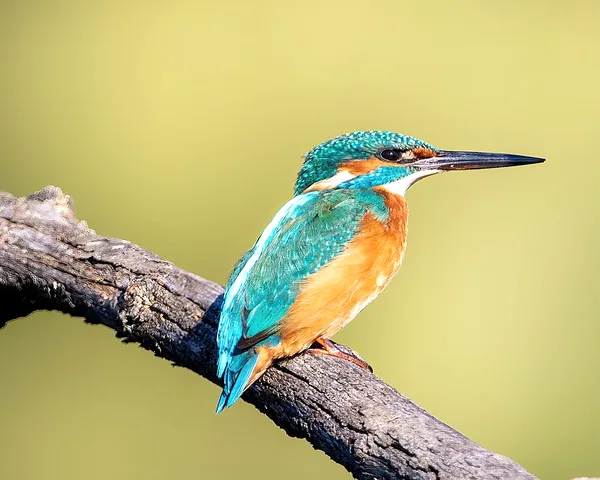
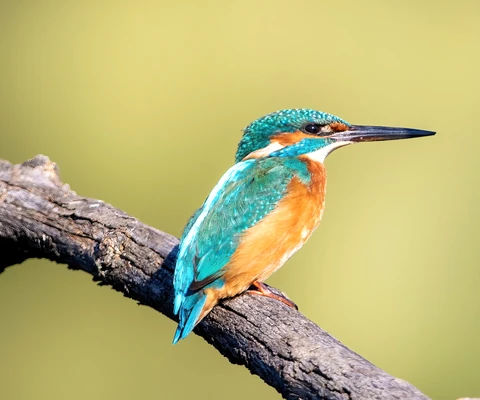
fix(nature): 移动端物种图鉴去背景框、配图重导出、文字区浅色底

diff --git a/app/nature/page.tsx b/app/nature/page.tsx
@@ -70,6 +70,8 @@ interface TopicCardBase {
   image: ImageSource;
   icon: LucideIcon;
   tint: string;
+  /** 移动端卡片文字区的浅色底 */
+  mobileTint: string;
 }
 
 interface TopicCard extends TopicCardBase {
@@ -85,6 +87,7 @@ const natureBlurDataUrl =
 const topicCardBase: TopicCardBase[] = [
   {
     key: "birds",
+    mobileTint: "bg-[#eaf4fd] dark:bg-[#15263a]",
     title: "鸟类",
     subtitle: "发现天空的精灵",
     href: "/nature/birds",
@@ -94,6 +97,7 @@ const topicCardBase: TopicCardBase[] = [
   },
   {
     key: "insects",
+    mobileTint: "bg-[#fdeeee] dark:bg-[#36191d]",
     title: "昆虫",
     subtitle: "微观世界的生命",
     href: "/nature/insects",
@@ -103,6 +107,7 @@ const topicCardBase: TopicCardBase[] = [
   },
   {
     key: "plants",
+    mobileTint: "bg-[#eef6e6] dark:bg-[#1b2c18]",
     title: "植物",
     subtitle: "读懂叶片、花果与种子",
     href: "/nature/plants",
@@ -263,13 +268,8 @@ function NatureHeroSection({ submitHref }: { submitHref: string }) {
 function TopicCardsSection({ topicCards }: { topicCards: TopicCard[] }) {
   return (
     <section aria-labelledby="nature-topics-heading">
-      <div className="relative overflow-hidden rounded-sm border border-[hsl(var(--surface-border)/0.7)] bg-[linear-gradient(180deg,#f3faf5_0%,#f8fbfd_60%,transparent_100%)] p-3 pt-2.5 dark:bg-[linear-gradient(180deg,hsl(150_30%_12%/0.55)_0%,transparent_100%)] md:overflow-visible md:rounded-none md:border-0 md:bg-none md:p-0 md:dark:bg-none">
-        <div aria-hidden className="pointer-events-none absolute -right-3 -top-3 text-[#4f9a62] opacity-[0.16] dark:text-[#7fd49a] dark:opacity-[0.12] md:hidden">
-          <Leaf className="absolute right-10 top-2 h-9 w-9 rotate-[-30deg]" />
-          <Leaf className="absolute right-1 top-7 h-12 w-12 rotate-[25deg]" />
-          <Leaf className="absolute right-20 top-9 h-6 w-6 rotate-[60deg]" />
-        </div>
-        <h2 id="nature-topics-heading" className="relative mb-2.5 px-1 text-[15px] font-bold text-foreground min-[390px]:text-[16px] md:sr-only">物种图鉴</h2>
+      <div>
+        <h2 id="nature-topics-heading" className="mb-2.5 px-1 text-[15px] font-bold text-foreground min-[390px]:text-[16px] md:sr-only">物种图鉴</h2>
       <div className="relative grid grid-cols-3 gap-2 md:gap-4">
         {topicCards.map((topic) => (
           <TopicCardView key={topic.title} topic={topic} />
@@ -300,8 +300,9 @@ function TopicCardView({ topic }: { topic: TopicCard }) {
           fill
           placeholder="blur"
           blurDataURL={natureBlurDataUrl}
-          className="object-cover transition-transform duration-700 dark:brightness-[0.85] motion-safe:group-hover:scale-[1.03] md:hidden"
-          sizes="34vw"
+          className="object-cover transition-transform duration-700 motion-safe:group-hover:scale-[1.03] md:hidden"
+          quality={90}
+          sizes="(max-width: 767px) 40vw, 1px"
         />
         <Image
           src={topicImage.src}
@@ -313,11 +314,10 @@ function TopicCardView({ topic }: { topic: TopicCard }) {
           className="hidden object-cover object-right opacity-95 md:block transition-transform duration-700 dark:brightness-[0.82] dark:saturate-[0.8] motion-safe:group-hover:scale-[1.03] md:mask-[linear-gradient(100deg,transparent_0%,transparent_40%,rgba(0,0,0,0.28)_56%,rgba(0,0,0,0.88)_72%,#000_86%)]"
           sizes="(max-width: 767px) 33vw, (max-width: 1536px) 32vw, 480px"
         />
-        <div aria-hidden className="pointer-events-none absolute inset-0 hidden bg-[linear-gradient(180deg,hsl(var(--surface-raised)/0.08)_30%,hsl(var(--surface-raised)/0.3)_70%,hsl(var(--surface-raised))_100%)] dark:block md:dark:hidden" />
         <div className={`absolute inset-0 hidden bg-linear-to-r md:block ${topic.tint}`} />
         <div className="absolute inset-0 hidden bg-[linear-gradient(100deg,hsl(var(--surface-raised)/0.94)_0%,hsl(var(--surface-raised)/0.82)_36%,hsl(var(--surface-raised)/0.34)_52%,transparent_70%)] md:block dark:bg-[linear-gradient(100deg,hsl(var(--surface-raised)/0.92)_0%,hsl(var(--surface-raised)/0.78)_38%,hsl(var(--surface-raised)/0.28)_54%,transparent_72%)]" />
       </div>
-      <div className="relative z-10 flex flex-col gap-1 p-2 min-[390px]:p-3 md:min-h-[188px] md:justify-between md:p-5">
+      <div className={`relative z-10 flex flex-1 flex-col gap-1 p-2 min-[390px]:p-3 md:bg-transparent md:dark:bg-transparent ${topic.mobileTint} md:min-h-[188px] md:justify-between md:p-5`}>
         <div>
           <div className="flex items-center justify-between gap-1 md:justify-start md:gap-2">
             <Icon className="hidden h-5 w-5 shrink-0 text-primary md:block" strokeWidth={2.2} />
@@ -329,7 +329,8 @@ function TopicCardView({ topic }: { topic: TopicCard }) {
         <div className="flex items-end justify-between gap-2">
           <div className="min-w-0 flex-1 text-xs leading-5 text-muted-foreground">
             <p className="hidden md:block">{formatCount(topic.observationCount)} 条观察记录</p>
-            <p>{progressLabel}</p>
+            <p className="md:hidden">图鉴 {formatCount(topic.speciesCount)} 种</p>
+            <p className="hidden md:block">{progressLabel}</p>
             {topic.progressState === "anonymous" ? <p className="mt-0.5 hidden text-primary/80 md:block">登录后查看观察状态</p> : null}
           </div>
           <span
